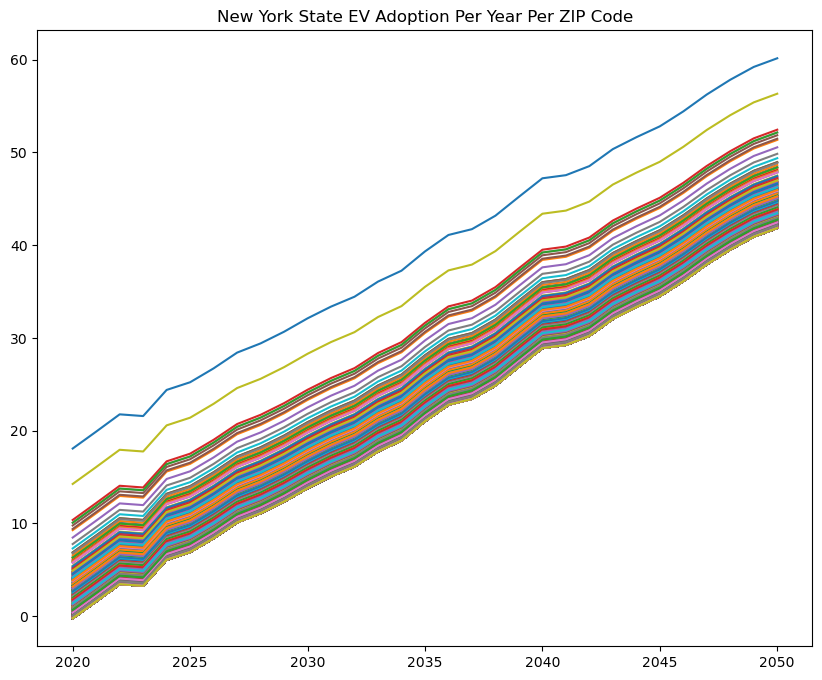
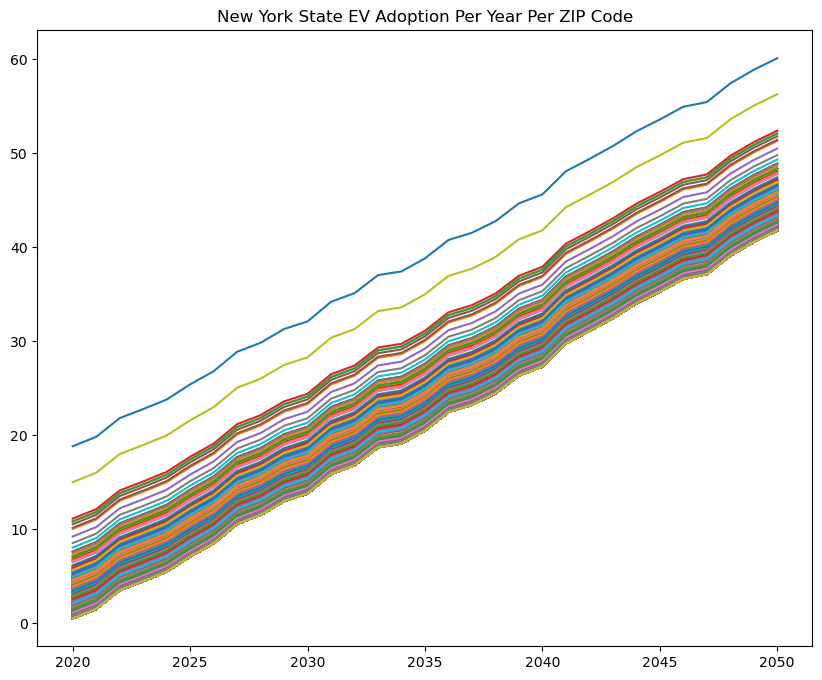
message

diff --git a/README.md b/README.md
@@ -201,33 +201,6 @@ Bar graphs were used to show the difference between top 6 most purchased EV mode
 
 
 
-## Visualisation for NYS EV Registrations
-
-- NYS EV registrations map
-
-![NYS_EV_registration_map](Images/NYS_EV_registration_map.png)
-
-
-
-- New York City EV registrations map
-
-Visualisation for New York city including it's boroughs, Manhattan, Brooklyn, the Bronx , Queens and Staten Island. Their respective county are New York County, Kings, Bronx, Queens and Richmond County
-
-![NY_city_EV_registration_map](Images/NY_city_EV_registration_map.png)
-
-
-
-- NYS EV station registrations map
-
-![NYS_EV_station_map](Images/NYS_EV_station_map.png)
-
-
-
-- Tableau
-
-
-
-
 ## Prediction for the Number of EVs on the Road by County in 2023
 
 
@@ -464,7 +437,7 @@ First, we removed the ZIP codes with high mean squared error by placing a thresh
 
 - Predict the Future Data in the Next 30 Years
 
-To predict the next 30 years, we need to generate data for **temperature** and **income** in New York state based on some hypotheses.
+To predict the next 30 years, we need to generate data for **temperature** and **income** in NYS based on some hypotheses.
 
 *NYS Temperature Data (2020-2050)*
 
@@ -503,7 +476,7 @@ NYS total EV adoption from 2020 to 2050:
 ![NYS_total_cumulative_EV_adoption](Images/NYS_total_cumulative_EV_adoption.png)
 
 
-> In total, our model predicts that NY state will have over *746238* EVs by **2050**.
+> In total, our model predicts that NY state will have over *750,328* EVs by **2050**.
 
 
 
@@ -535,9 +508,9 @@ We can also calculate the average energy surplus per ZIP code. To do so, we load
 
 #### *Combining EV Adoption with Electrical Infrastructure*
 
-On average, EVs get somewhere within the range of 2 to 3 mi/kWh, so we can use 2.5 mi/kWh as our number. American drivers average 15000 miles driven per year, so this comes down to 6000 kWh per year, or 6 MWh per year. Given that the energy surplus average is around 17 million MWh, the state of NY can support about 140 million EVs using the energy surplus.
+On average, EVs get somewhere within the range of 2 to 3 mi/kWh, so we can use 2.5 mi/kWh as our number. American drivers average 15,000 miles driven per year, so this comes down to 6,000 kWh per year, or 6 MWh per year. Given that the energy surplus average is around 17 million MWh, the state of NY can support about 140 million EVs using the energy surplus.
 
-If we only consider 22% of the surplus, which is the average percentage of energy that is supplied through renewable sources, then we have about 13 million MWh of surplus, which can support about 30.8 million EVs. This actually means that even with our projected *746238* EVs by 2050, NY state will still have enough renewable energy capacity to support all of them overall. In total, NY state can support *140678334* EVs through energy surplus.
+If we only consider 22% of the surplus, which is the average percentage of energy that is supplied through renewable sources, then we have about 3.74 million MWh of surplus, which can support about 2.18 million EVs. This actually means that even with our projected *750,328* EVs by 2050, NY state will still have enough renewable energy capacity to support all of them overall. In total, NY state can support *140,678,334* EVs through energy surplus.
 
 ![EVs_NYS_can_support_given_EV_doption](Images/EVs_NYS_can_support_given_EV_doption.png)
 
@@ -548,6 +521,50 @@ However, it is different per ZIP code, and it turns out that there some ZIP code
 Below, let us take the average energy surplus across each ZIP code and subtract that predicted number of EVs that will be purchased over the years 2021 to 2050. This will give us the remainder of how many more EVs each ZIP code can support.
 
 ![EVs_each_ZIP_code_can_support_given_EV_doption](Images/EVs_each_ZIP_code_can_support_given_EV_doption.png)
+
+
+
+
+## Visualisation for NYS EV Registrations
+
+
+### Folium Map
+
+- NYS EV registrations map
+
+![NYS_EV_registration_map](Images/NYS_EV_registration_map.png)
+
+
+
+- New York City EV registrations map
+
+Visualisation for New York city including it's boroughs, Manhattan, Brooklyn, the Bronx , Queens and Staten Island. Their respective county are New York County, Kings, Bronx, Queens and Richmond County
+
+![NY_city_EV_registration_map](Images/NY_city_EV_registration_map.png)
+
+
+
+- NYS EV station registrations map
+
+![NYS_EV_station_map](Images/NYS_EV_station_map.png)
+
+
+
+### Tableau
+
+Tableau (https://github.com/Hosseindbr/Ev-projected-sale/blob/788b01739c68038260547bd289adc8e1267ff6c9/EV-Project.twbx) was used to visualize our findings.
+
+
+![Tableau_1](Images/Tableau_1.png)
+
+
+![Tableau_2](Images/Tableau_2.png)
+
+
+![Tableau_3](Images/Tableau_3.png)
+
+
+![Tableau_4](Images/Tableau_4.png)
 
 
 
@@ -573,7 +590,7 @@ Below, let us take the average energy surplus across each ZIP code and subtract 
 - In total, NYS can support 30.8 million EVs through **renewable energy surplus**.
 
 
-- NYS will have over 746238 EVs by 2050. At that time, NYS will still have enough renewable energy capacity to support all of them. 
+- NYS will have over *750,328* EVs by 2050. At that time, NYS will still have enough renewable energy capacity to support all of them. 
 
 
 
@@ -584,6 +601,15 @@ Below, let us take the average energy surplus across each ZIP code and subtract 
 <p align="center">
 <img src="https://github.com/Hosseindbr/Ev-projected-sale/blob/cefc12c2d76d753b2b5089dd79921c46770477d0/Images/picture_4.png" width="316" height="130">
 </p>
+
+
+- Due to time limitations, we had to limit our project to NYS only. There may be other states that are promising for future electric vehicle demand. In the future, we would like to model the EV sales for more states in U.S. to have a more comprehensive analysis.
+
+
+- Commuting patterns of residents in each county could be considered when analyzing the demand of EV charging stations. Most charging is done at home or at work. Finding counties that people tend to commute into for work, and accounting for this effect by adjusting the anticipated demand for chargers in these counties would result in more accurate recommendations.
+
+
+- To optimize our model for the EV Adoption in NYS from 2020 to 2050, besides temperature and income, we can generate the future data for population and energy infrastructure in NYS as well.
 
 
 
